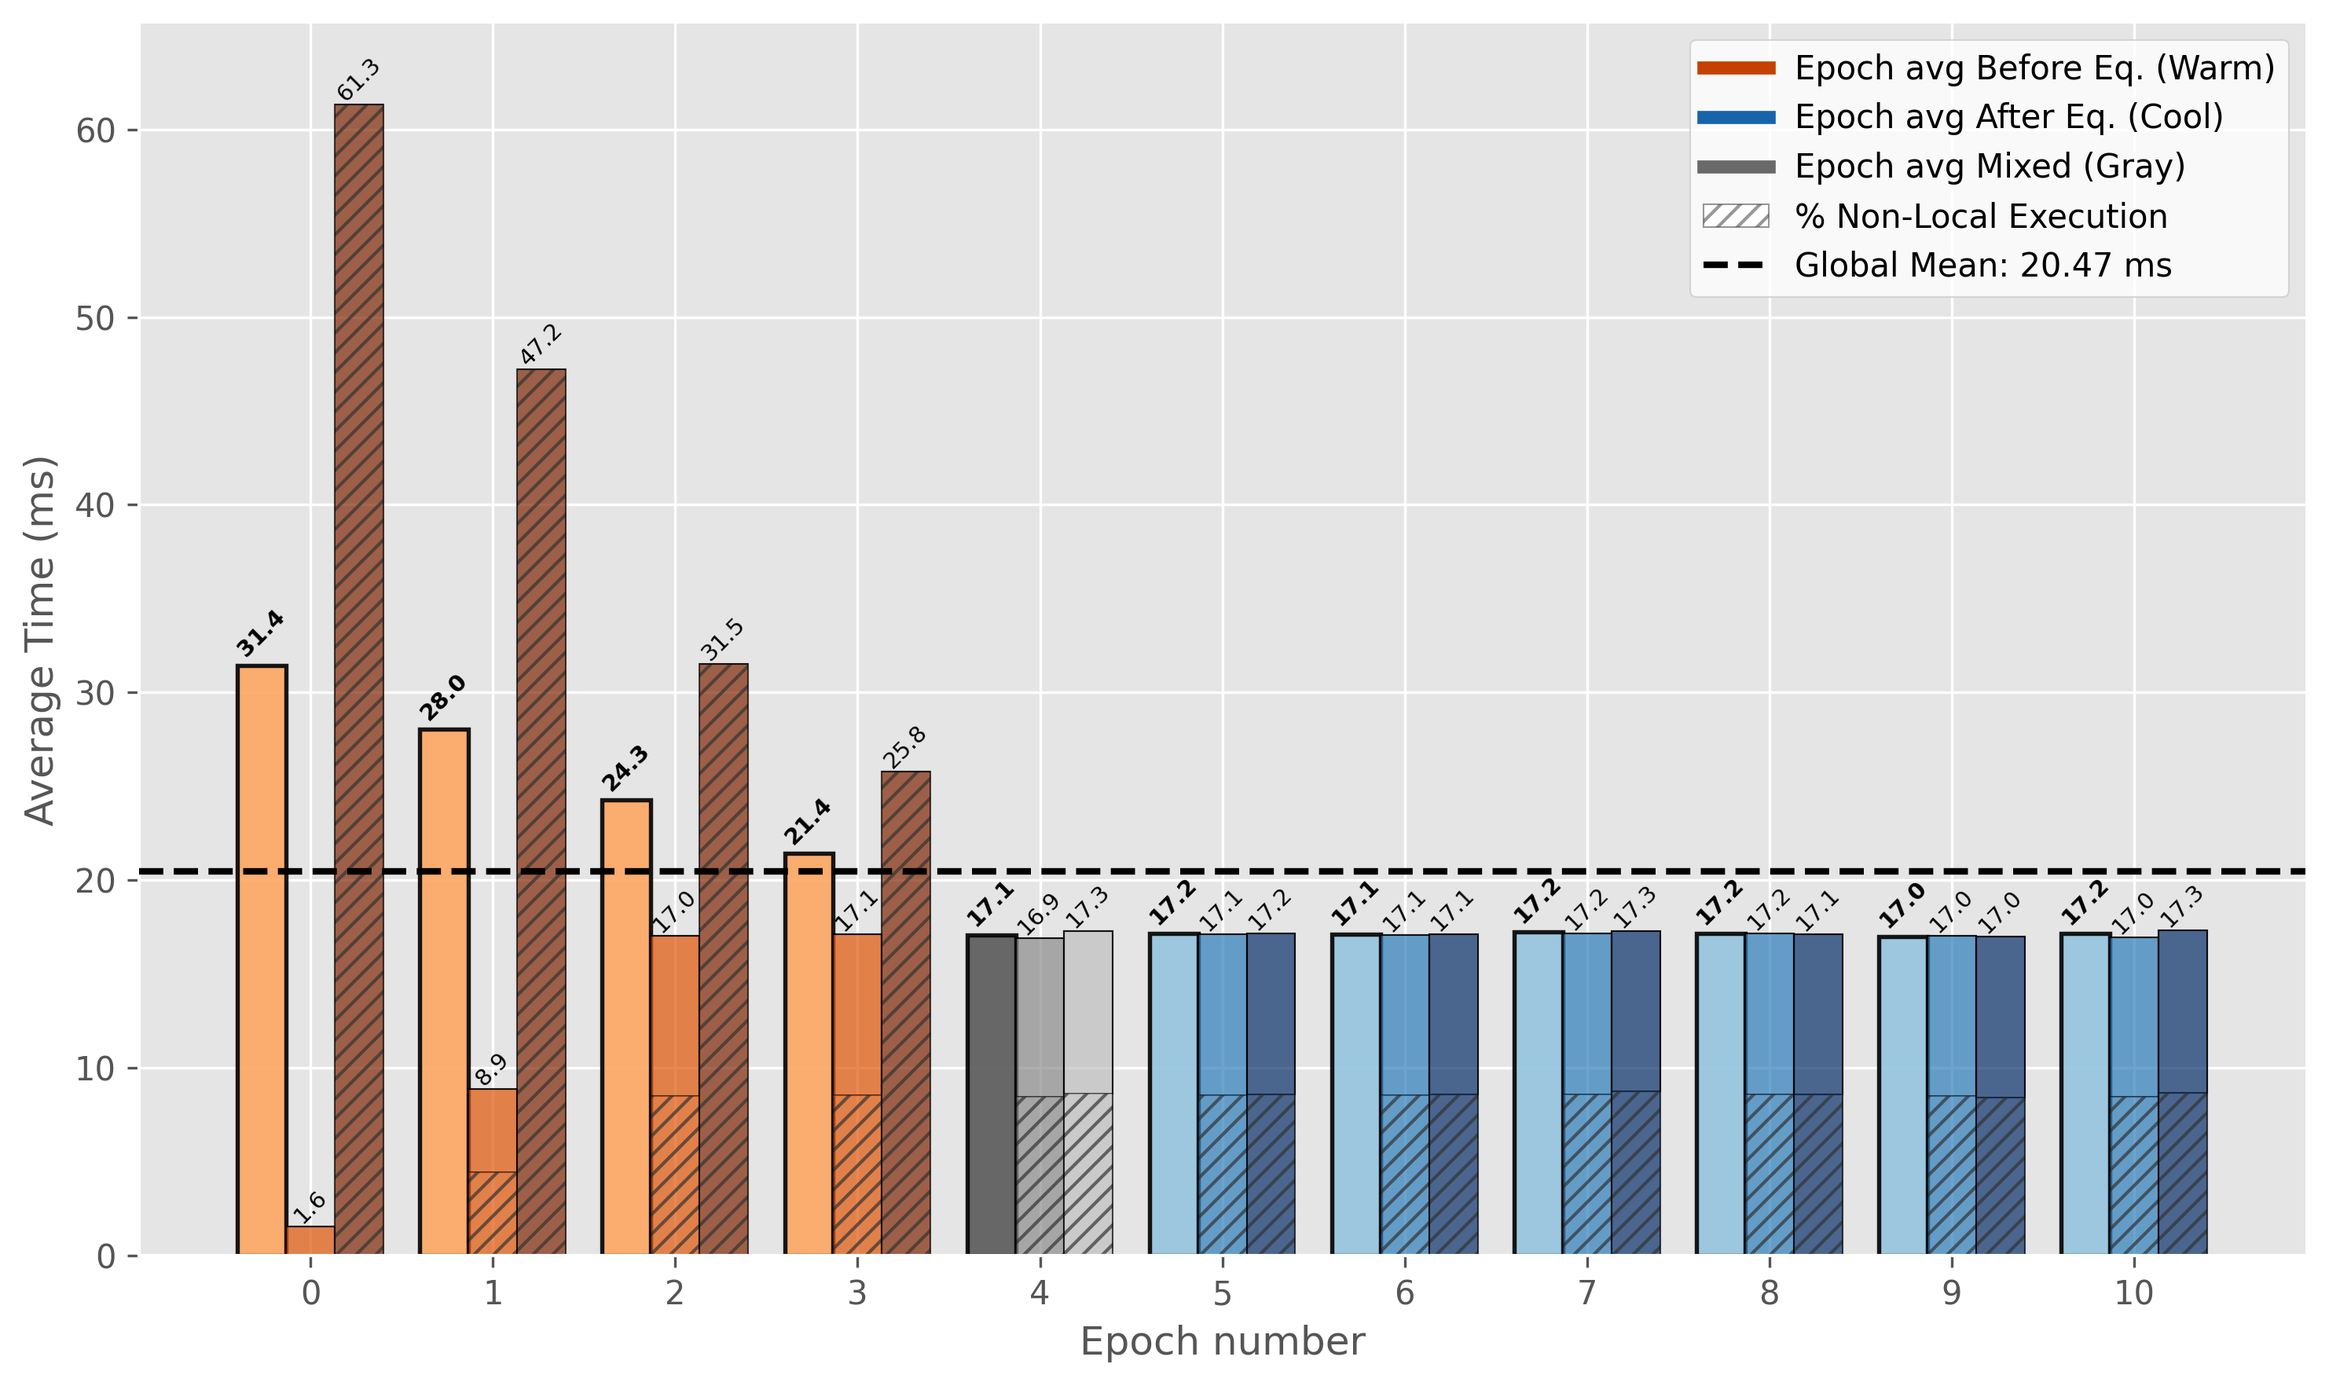
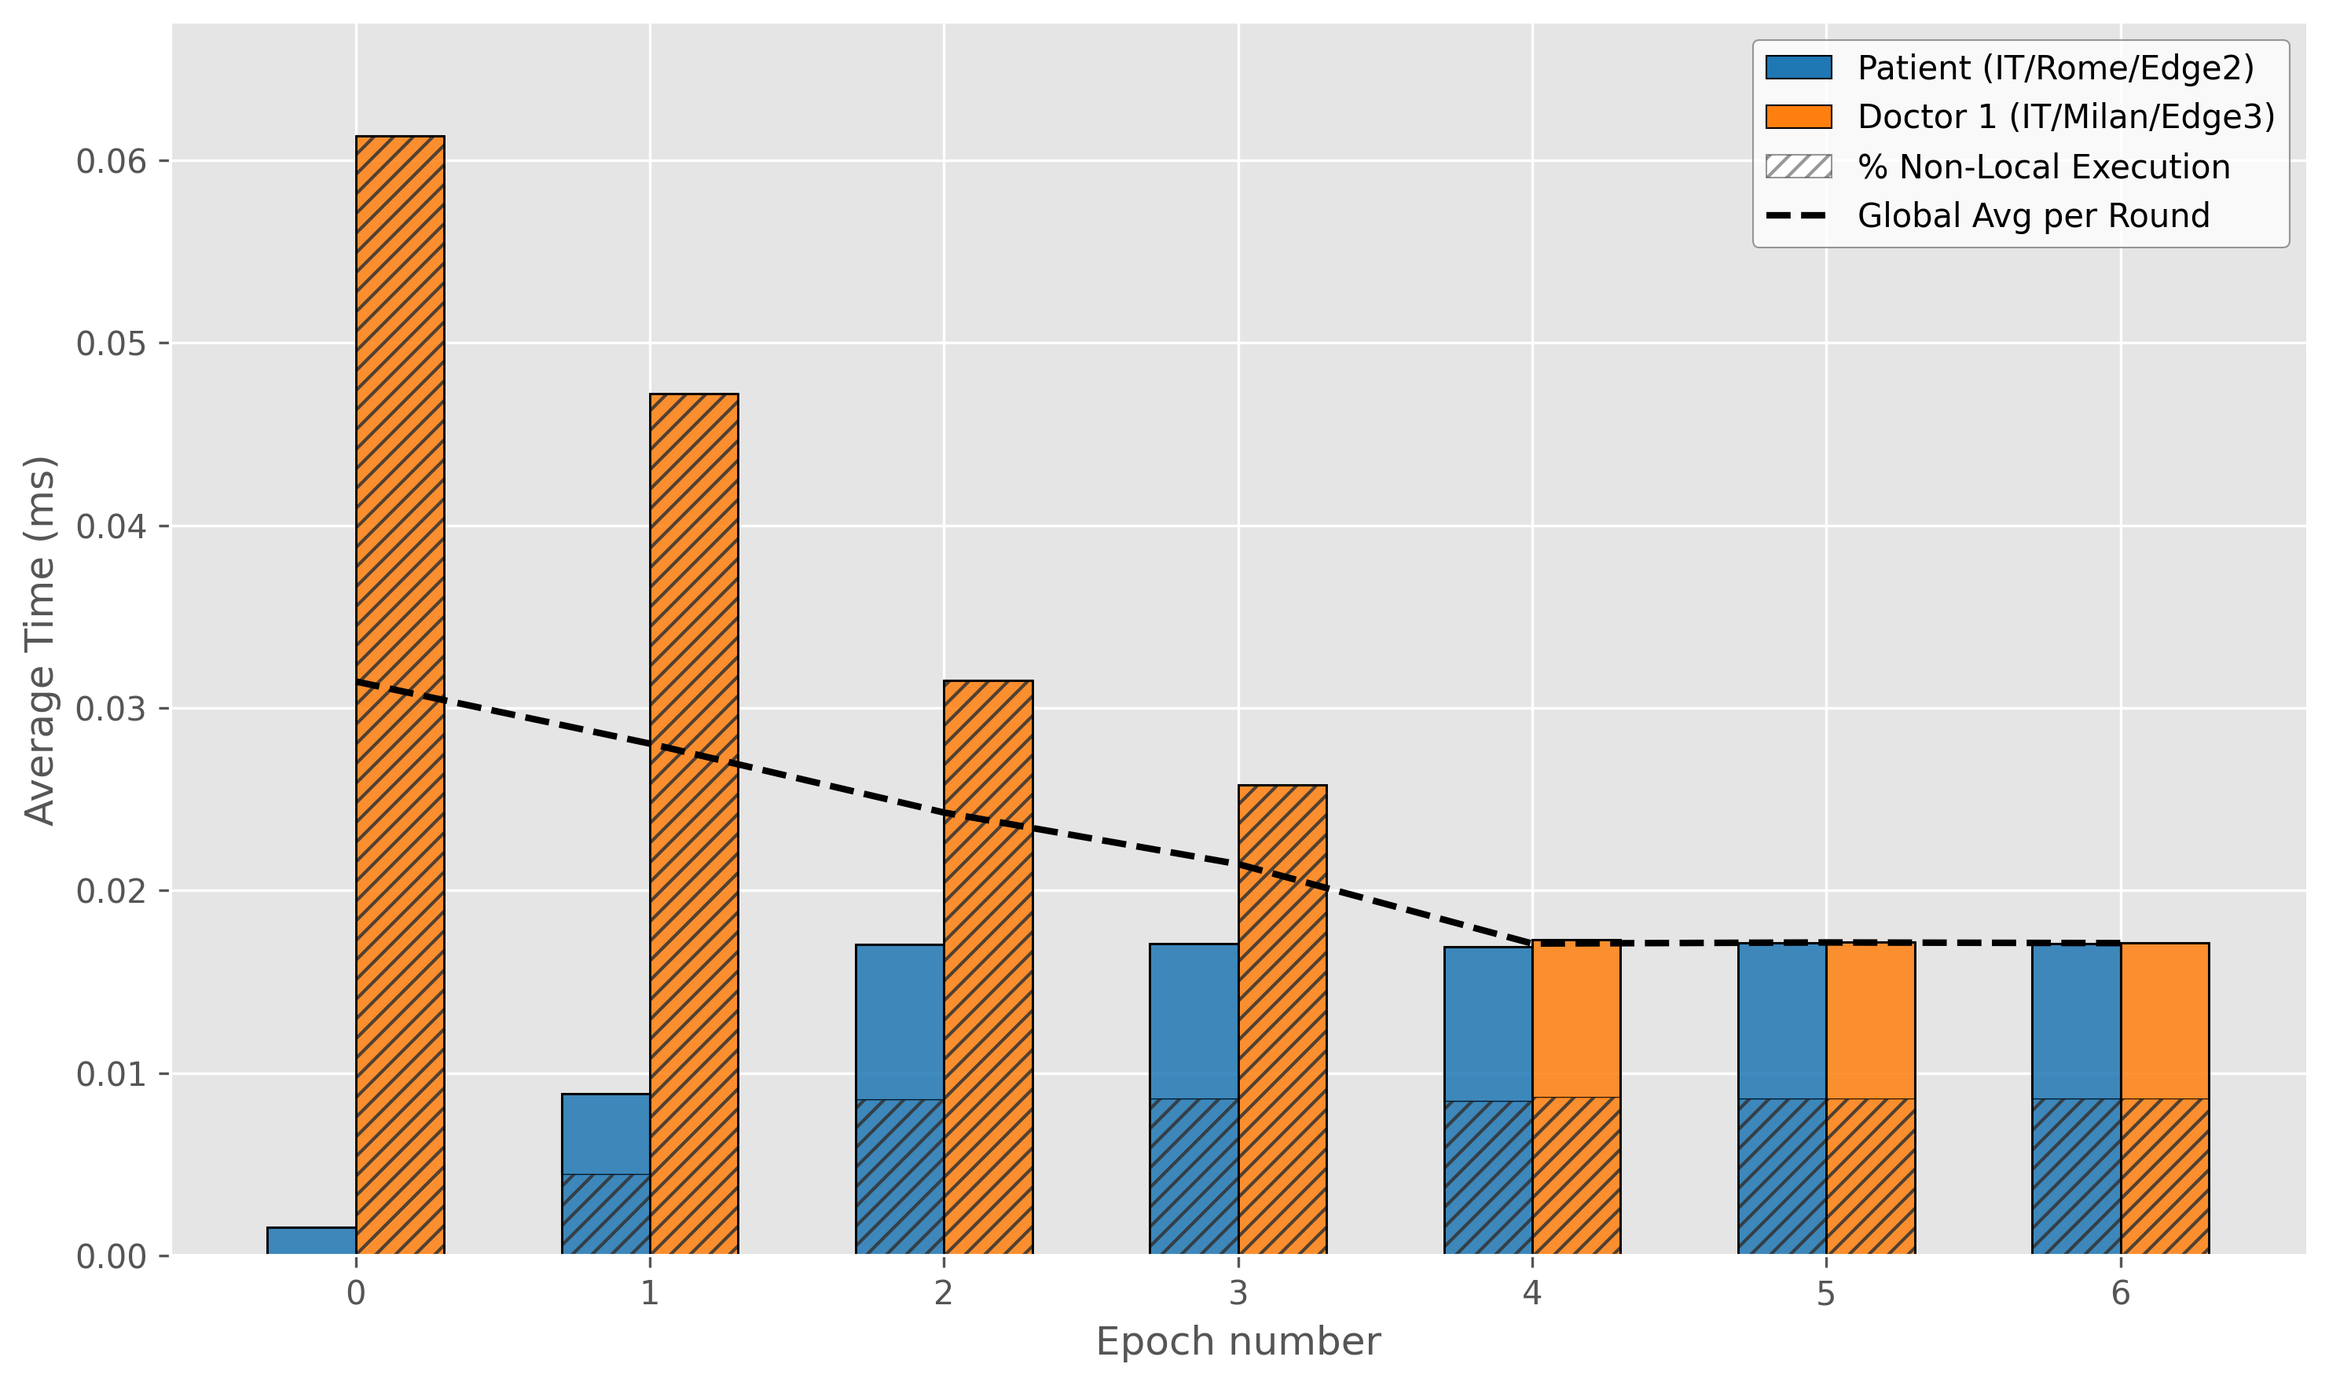
Change latency graph

diff --git a/ermes_benchmark/convergence_test/code/plots/latency.py b/ermes_benchmark/convergence_test/code/plots/latency.py
@@ -401,67 +401,56 @@ def local_vs_remote_latency_violin(dfs, scenario):
     plt.tight_layout()
     return fig
 
-
-def plot_logs_avg_latency(dfs, scenario, show_if_remote=True):
+def plot_logs_avg_latency(dfs, scenario, domains, show_if_remote=True, max_rounds=7):
     """
-    Plots the overall average per round alongside the average per file for that round.
-    The bar is split: the hatched portion represents the % of non-local executions.
+    Plots the average per file using 'tab10' colormap.
+    Legend logic: 'Patient (Domain)' and 'Doctor X (Domain)'.
+    - Includes Global Average Line.
+    - Limits x-axis to 'max_rounds'.
+    - Parses EntryHost IP to find domain name using 'domains' dict.
     """
     try:
         # 1. Concatenate all files
         full_df = pd.concat(dfs, keys=range(1, len(dfs) + 1), names=['FileID', None])
         full_df = full_df.reset_index(level=0)
 
-        # Calcolo medie (Altezza totale delle barre)
+        # Calcolo medie
         avg_all_files = full_df.groupby('Group')['Duration'].mean().rename('Avg_All')
         avg_per_file = full_df.groupby(['Group', 'FileID'])['Duration'].mean().unstack(fill_value=np.nan)
 
         plot_df = pd.merge(avg_all_files, avg_per_file, left_index=True, right_index=True)
 
         # ----------------------------
-        # MODIFICA: Filtro per bottom_up
+        # FILTRO: TAGLIO AI PRIMI N ROUND
         # ----------------------------
-        # Se lo scenario è bottom_up o top_down, teniamo solo le prime 6 epoche (righe del df)
-        if scenario == "bottom_up" or scenario == "top_down":
-            plot_df = plot_df.iloc[:6]
+        if max_rounds is not None and len(plot_df) > max_rounds:
+            plot_df = plot_df.iloc[:max_rounds]
+            print(f"Plot limitato ai primi {max_rounds} round.")
 
         all_groups = plot_df.index.tolist()
+        n_files = len(dfs)
 
         # ----------------------------
         # PRE-CALCOLO RATIO NON-LOCAL
         # ----------------------------
-        # Calcoliamo la % di righe con Is_Local=False per ogni Gruppo/File
         if 'Is_Local' in full_df.columns:
-            # (~x).mean() calcola la percentuale di False (cioè non-local)
-            non_local_ratio = full_df.groupby(['Group', 'FileID'])['Is_Local'].apply(lambda x: (~x).mean()).unstack(
-                fill_value=0)
+            non_local_ratio = full_df.groupby(['Group', 'FileID'])['Is_Local'].apply(lambda x: (~x).mean()).unstack(fill_value=0)
         else:
             non_local_ratio = pd.DataFrame(0, index=plot_df.index, columns=avg_per_file.columns)
 
         # ----------------------------
-        # 2. warm / cool / mixed logic
+        # ESTRAZIONE ENTRY HOST PER LA LEGENDA
         # ----------------------------
-        group_status = {}
-        for g, subdf in full_df.groupby('Group')['BeforeEq']:
-            if subdf.all():
-                group_status[g] = "warm"
-            elif (~subdf).all():
-                group_status[g] = "cool"
-            else:
-                group_status[g] = "mixed"
+        host_map = {}
+        if 'EntryHost' in full_df.columns:
+            host_series = full_df.groupby('FileID')['EntryHost'].first()
+            host_map = host_series.to_dict()
 
-        # Colormaps
-        n_files = len(dfs)
-        WARM_CMAP = plt.cm.Oranges
-        COOL_CMAP = plt.cm.Blues
-
-        warm_shades = WARM_CMAP(np.linspace(0.4, 1.0, n_files + 1))
-        cool_shades = COOL_CMAP(np.linspace(0.4, 1.0, n_files + 1))
-
-        # Gray shades for mixed
-        gray_shades = np.linspace(0.35, 0.75, n_files + 1)
-        gray_colors = [(g, g, g, 0.9) for g in gray_shades]
-        gray_colors_file = [(g, g, g, 0.7) for g in gray_shades]
+        # ----------------------------
+        # 2. DEFINIZIONE COLORI (TAB10)
+        # ----------------------------
+        cmap = plt.get_cmap("tab10")
+        client_colors_palette = [cmap(i % 10) for i in range(n_files)]
 
         # ----------------------------
         # 3. Setup Plot
@@ -470,180 +459,154 @@ def plot_logs_avg_latency(dfs, scenario, show_if_remote=True):
         fig, ax = plt.subplots(figsize=(10, 6))
 
         total_bars_in_group = n_files + 1
-        bar_width = 0.8 / total_bars_in_group
+        bar_width = 0.9 / total_bars_in_group
         x = np.arange(len(all_groups))
-        agg_pos = x - (total_bars_in_group / 2 - 0.5) * bar_width
+        agg_pos = x - (total_bars_in_group / 2) * bar_width
 
         # ----------------------------
-        # 4. Aggregate bars (Avg_All)
+        # 5. Per-file bars
         # ----------------------------
-        agg_colors = []
-        for g in all_groups:
-            # group_status contiene tutti i gruppi, ma noi iteriamo solo su all_groups (filtrato)
-            status = group_status.get(g, "mixed")
-            if status == "warm":
-                agg_colors.append(warm_shades[0])
-            elif status == "cool":
-                agg_colors.append(cool_shades[0])
-            else:
-                agg_colors.append(gray_colors[0])
-
-        ax.bar(
-            agg_pos,
-            plot_df['Avg_All'],
-            bar_width,
-            color=agg_colors,
-            edgecolor='black',
-            linewidth=1.3,
-            alpha=0.9,
-            label='_nolegend_'
-        )
-
-        # ----------------------------
-        # 5. Per-file bars (STACKED LOGIC)
-        # ----------------------------
-        gray_hatch_color = (0.2, 0.2, 0.2, 0.5)  # Grigio scuro per le righe dell'hatch
+        gray_hatch_color = (0.2, 0.2, 0.2, 0.5)
 
         for j in range(1, n_files + 1):
             file_pos = agg_pos + j * bar_width
+            this_client_color = client_colors_palette[j-1]
 
-            # Liste per i colori e le altezze di questo specifico Client (FileID j)
-            bar_colors = []
             total_heights = []
             ratios = []
 
             for g in all_groups:
-                status = group_status.get(g, "mixed")
-                # Determina colore base
-                if status == "warm":
-                    bar_colors.append(warm_shades[j])
-                elif status == "cool":
-                    bar_colors.append(cool_shades[j])
-                else:
-                    bar_colors.append(gray_colors_file[j])
-
-                # Ottieni altezza totale e ratio
                 h = plot_df.loc[g, j]
-                # Usa .loc con get sicuro o controlla l'indice, ma essendo filtered all_groups dovrebbe esistere
-                # Se non_local_ratio ha più righe di plot_df, non importa, prendiamo solo g
-                r = non_local_ratio.loc[g, j] if (g in non_local_ratio.index and j in non_local_ratio.columns) else 0
+                if g in non_local_ratio.index:
+                    r = non_local_ratio.loc[g, j] if j in non_local_ratio.columns else 0
+                else:
+                    r = 0
 
-                # Gestione NaN
                 if pd.isna(h): h = 0
                 if pd.isna(r): r = 0
-
                 total_heights.append(h)
                 ratios.append(r)
 
-            # Convertiamo in numpy array per calcoli vettoriali facili
             total_heights = np.array(total_heights)
             ratios = np.array(ratios)
 
-            # Calcolo altezze parziali
             if show_if_remote:
-                height_hatched = total_heights * ratios  # Parte NON locale
-                height_solid = total_heights - height_hatched  # Parte locale
+                height_hatched = total_heights * ratios
+                height_solid = total_heights - height_hatched
             else:
                 height_hatched = np.zeros_like(total_heights)
                 height_solid = total_heights
 
-            # Disegna la parte SOLIDA (Base)
+            bar_colors = [this_client_color] * len(all_groups)
+
+            # Solid part (Local)
             ax.bar(
                 file_pos,
                 height_solid,
                 bar_width,
                 bottom=height_hatched,
                 color=bar_colors,
-                edgecolor='black',  # o None se preferisci meno bordi interni
-                alpha=0.7,
+                edgecolor='black',
+                alpha=0.85,
                 label='_nolegend_'
             )
 
-            # Disegna la parte HATCHED (Top) - usa bottom=height_solid
-            # Disegniamo solo se c'è altezza > 0 per evitare warning o artefatti
+            # Hatched part (Remote)
             if np.any(height_hatched > 0):
                 ax.bar(
                     file_pos,
                     height_hatched,
                     bar_width,
-                    color=bar_colors,  # Stesso colore di sfondo
-                    edgecolor=gray_hatch_color,  # Colore delle righe diagonali
-                    hatch='////',  # Hatch più denso
-                    linewidth=0,  # Rimuove bordo esterno del rettangolo superiore (opzionale)
-                    alpha=0.7,
+                    color=bar_colors,
+                    edgecolor=gray_hatch_color,
+                    hatch='////',
+                    linewidth=0,
+                    alpha=0.85,
                     label='_nolegend_'
                 )
 
-            # Opzionale: ridisegnare un bordo nero attorno all'intera barra (totale)
-            # per dare un aspetto "unito"
+            # Bordo totale
             ax.bar(
                 file_pos,
                 total_heights,
                 bar_width,
-                color='none',  # Trasparente
+                color='none',
                 edgecolor='black',
                 label='_nolegend_',
-                alpha=0.7,
+                alpha=1,
+                linewidth=0.7
             )
 
+        # ----------------------------
+        # 6. LINEA MEDIA GLOBALE
+        # ----------------------------
+        ax.plot(
+            x,
+            plot_df['Avg_All'],
+            color='black',
+            marker='',
+            markersize=6,
+            linestyle='--',
+            linewidth=2,
+            label='_nolegend_',
+            zorder=10
+        )
+
         max_data_height = plot_df.max().max()
-
         if pd.notna(max_data_height):
-            ax.set_ylim(0, max_data_height * 1.07)
+            ax.set_ylim(0, max_data_height * 1.1)
 
         # ----------------------------
-        # 6. Global mean line
+        # 8. Legend Setup
         # ----------------------------
-        global_mean = plot_df['Avg_All'].mean()
-        ax.axhline(global_mean, linestyle='--', linewidth=2, color='black', zorder=3)
+        client_legend_elements = []
+        for i in range(n_files):
+            file_id = i + 1
 
-        # ----------------------------
-        # 7. Labels over bars
-        # ----------------------------
-        # Avg All Labels
-        fontsize = 7
-        if scenario == "full_traversal":
-            fontsize = 9
-        # elif scenario == "top_down" or scenario == "bottom_up":
-        #     fontsize = 4
+            # --- TUA LOGICA DI MAPPING ---
+            host_name = host_map.get(file_id, "Unknown")
+            try:
+                # Estrae l'ultimo ottetto dell'IP per usarlo come chiave in 'domains'
+                ip_part = host_name.split(':')[0]
+                last_octet = int(ip_part.split('.')[-1])
+                domain = domains.get(last_octet, host_name) # Usa host_name se l'ottetto non è in domains
+            except:
+                domain = host_name
 
-        for i, v in enumerate(plot_df['Avg_All']):
-            if pd.notna(v):
-                ax.text(agg_pos[i], v + 0.5, f'{v:.1f}', ha='center', rotation=45, fontsize=fontsize, fontweight='bold')
+            print(f"File {file_id} EntryHost: {host_name} -> {domain}")
+            # -----------------------------
 
-        # Per-File Labels
-        for j in range(1, n_files + 1):
-            file_pos = agg_pos + j * bar_width
-            # Qui usiamo total_heights ricalcolato o preso dal df
-            series_vals = plot_df[j].values
-            for i, v in enumerate(series_vals):
-                if pd.notna(v) and v > 0:
-                    ax.text(file_pos[i], v + 0.2, f'{v:.1f}', ha='center', rotation=45, fontsize=fontsize)
+            if i == 0:
+                base_name = "Patient"
+            else:
+                base_name = f"Doctor {i}"
 
-        # ----------------------------
-        # 8. Legend
-        # ----------------------------
-        equilibrium_legend = [
-            Line2D([0], [0], color=WARM_CMAP(0.8), lw=4, label='Epoch avg Before Eq. (Warm)'),
-            Line2D([0], [0], color=COOL_CMAP(0.8), lw=4, label='Epoch avg After Eq. (Cool)'),
-            Line2D([0], [0], color=gray_colors[0], lw=4, label='Epoch avg Mixed (Gray)')
-        ]
+            label_text = f"{base_name} ({domain})"
 
-        file_legend_elements = []
+            client_legend_elements.append(
+                Patch(facecolor=client_colors_palette[i], edgecolor='black', label=label_text)
+            )
+
+        # Elemento Remote
+        remote_legend_elements = []
         if show_if_remote and 'Is_Local' in full_df.columns:
-            file_legend_elements.append(
+            remote_legend_elements.append(
                 Rectangle((0, 0), 1, 1, facecolor='white', edgecolor=gray_hatch_color, hatch='////',
                           label='% Non-Local Execution')
             )
 
-        legend_elements = equilibrium_legend + file_legend_elements + [
-            Line2D([0], [0], color='black', lw=2, linestyle='--',
-                   label=f'Global Mean: {global_mean:.2f} ms')
+        # Elemento Linea Media
+        avg_line_legend = [
+            Line2D([0], [0], color='black', marker='',linestyle='--', lw=2, label='Global Avg per Round')
         ]
+
+        legend_elements = client_legend_elements + remote_legend_elements + avg_line_legend
 
         ax.legend(
             handles=legend_elements,
-            facecolor='white'
+            facecolor='white',
+            edgecolor='gray',
+            loc='best'
         )
 
         # ----------------------------
@@ -658,7 +621,6 @@ def plot_logs_avg_latency(dfs, scenario, show_if_remote=True):
             ax.spines[spine].set_visible(False)
 
         plt.tight_layout()
-
         print(f"Analysis completed for {len(all_groups)} groups.")
         return avg_all_files
 

diff --git a/ermes_benchmark/convergence_test/code/main.py b/ermes_benchmark/convergence_test/code/main.py
@@ -162,7 +162,7 @@ def main():
 
     # 3.1 Latency Analysis (Line Plot)
     print("Generating execution time analysis...")
-    latency.plot_logs_avg_latency(full_dfs, args.subfolder)
+    latency.plot_logs_avg_latency(full_dfs, args.subfolder, config.domains)
     plt.savefig(f'{output_dir}/execution_time_analysis.png', dpi=300, bbox_inches='tight')
     plt.savefig(f'{output_dir}/pdf/execution_time_analysis.pdf', bbox_inches='tight')
     plt.close()
